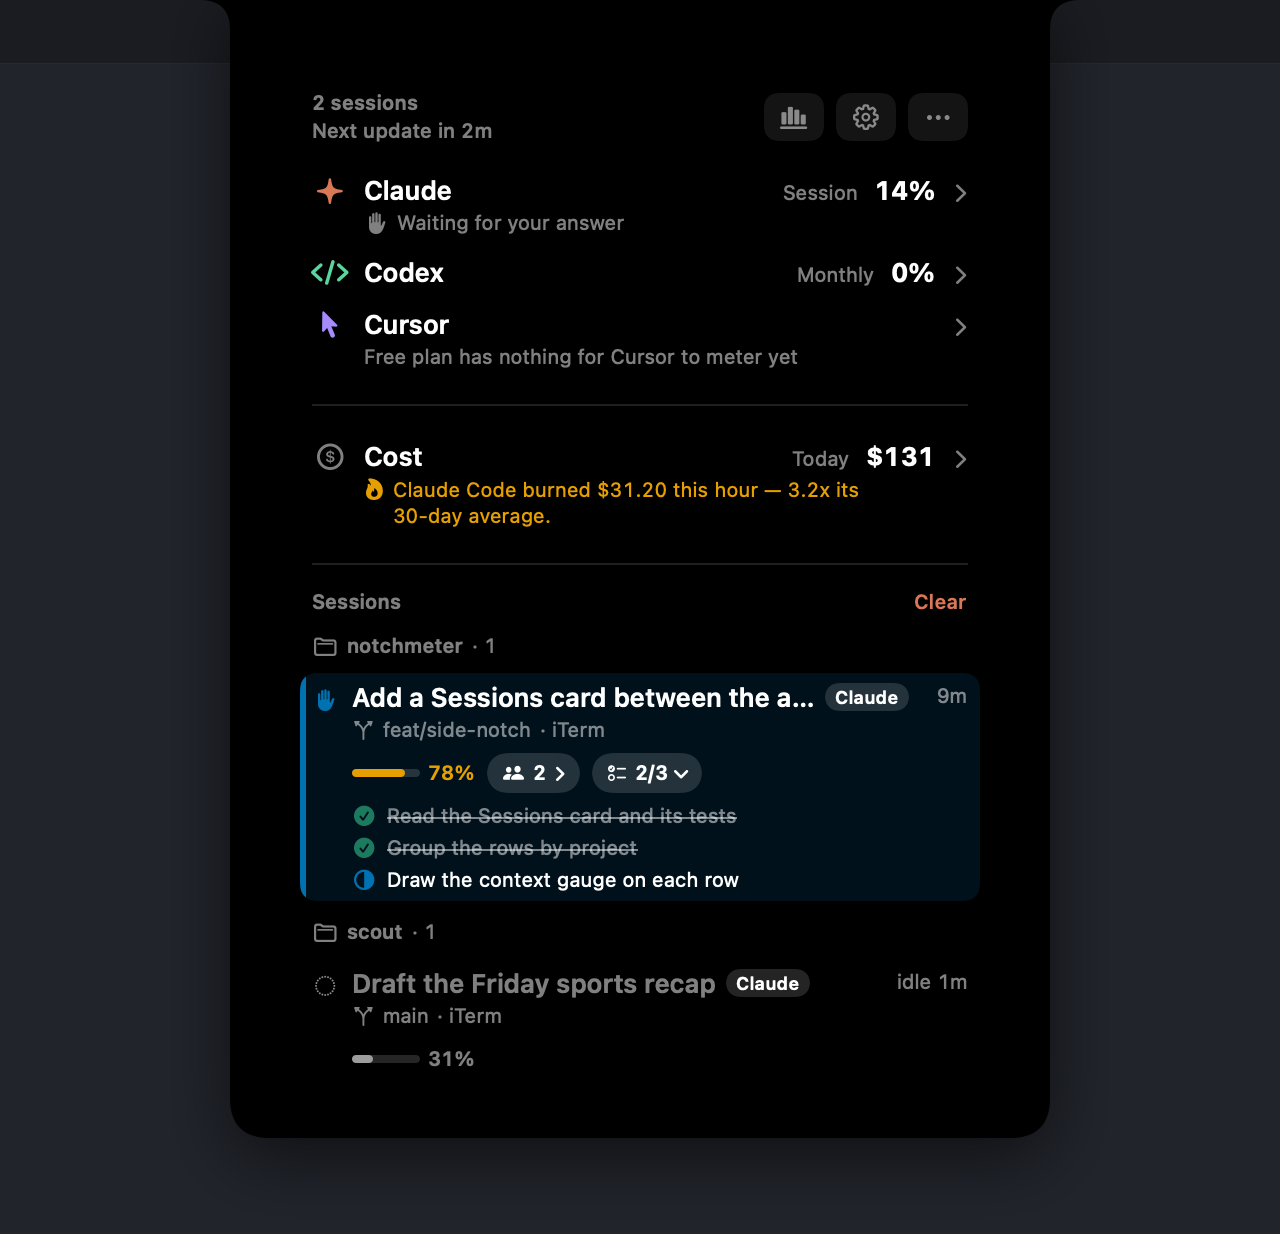
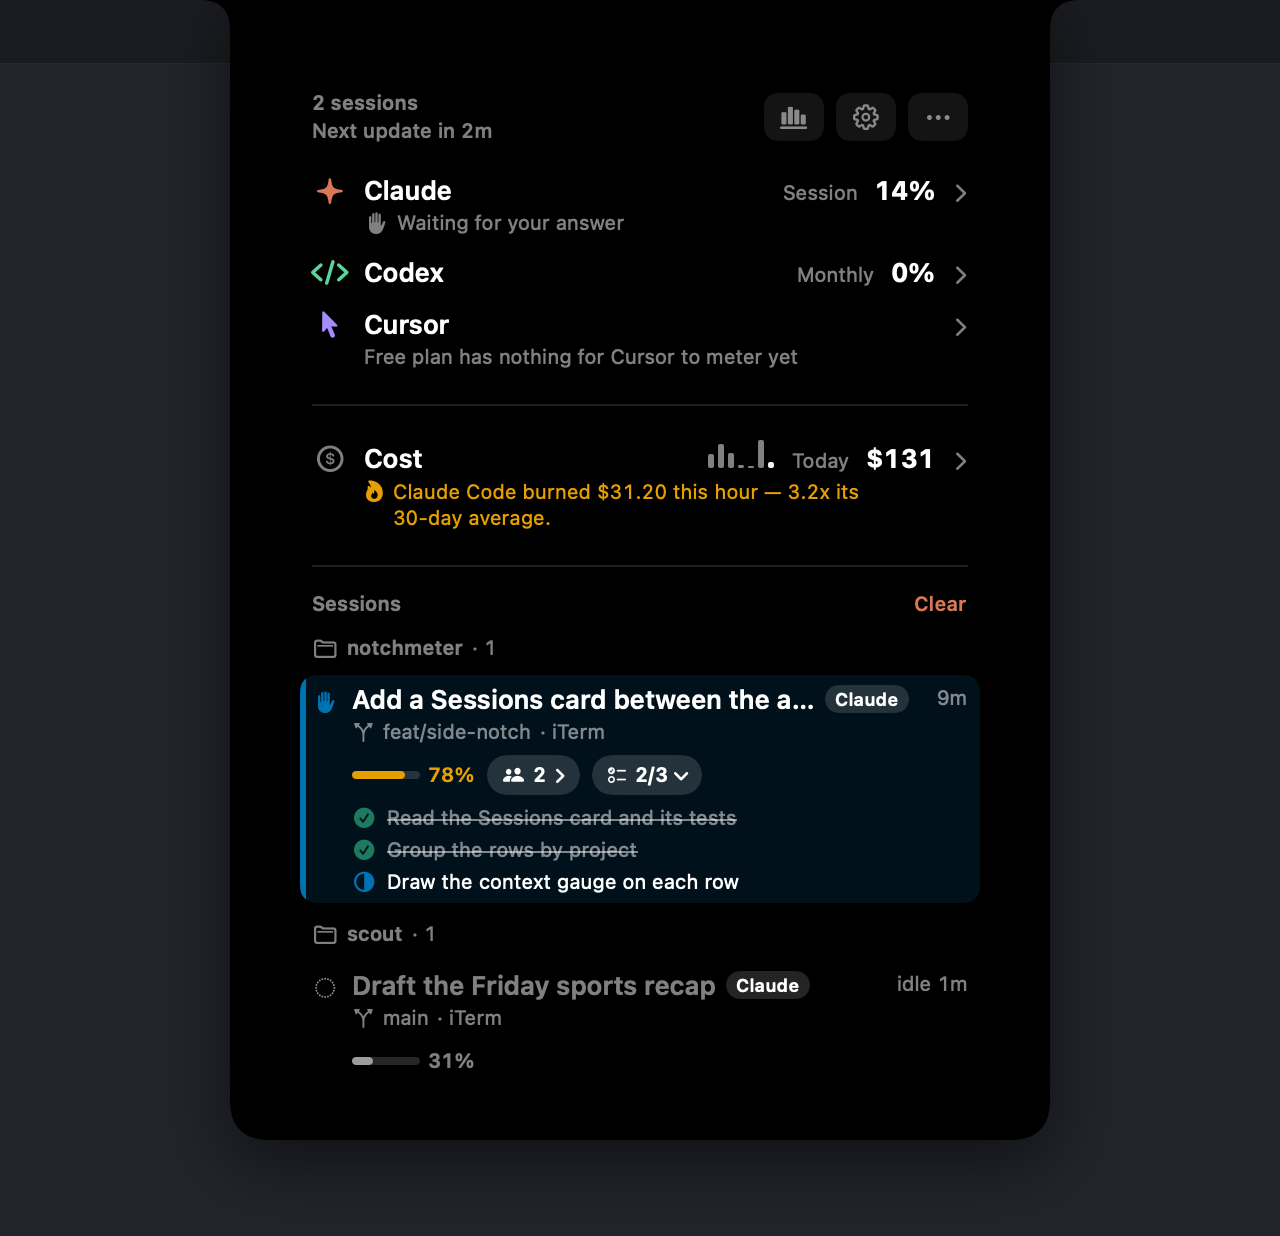
The 0.9.0 pictures, and a Settings sidebar wide enough for every pane name
The final-audit commit meant to bring docs/media and site/img up to the merged app, but its copy never
landed, so the README and the site were still showing 0.8.0 windows: no Theme section, no week strip on
the Cost row. Every picture the docs reference is rendered again from the release build, and
scripts/site-assets.sh copied the site's set.

The Settings sidebar opened at about 145 pt, which cut pane names in five languages: the German
"Erscheinungsbild" came out as "Erscheinun…", Russian lost Appearance, Notifications and Advanced,
Spanish two names, French and Japanese their Dashboard. The earlier fix, navigationSplitViewColumnWidth(210),
did nothing in this panel: neither an ideal nor a minimum moved the rendered window or the split view
item's thickness, hosted through NSHostingView or NSHostingController alike. A minimum width on the
column's own content is what the split view honours, so the sidebar carries .frame(minWidth: 200) and every
language's pane names fit in full (German and Russian checked by render).

Claude-Session: https://claude.ai/code/session_01XbqdrwMrwJ3enjCnoUf2M8

diff --git a/Sources/Notchmeter/SettingsWindow.swift b/Sources/Notchmeter/SettingsWindow.swift
@@ -351,9 +351,13 @@ struct SettingsView: View {
             .padding(.leading, item.tool == nil ? 0 : 10)
         }
         .listStyle(.sidebar)
-        // Wide enough for the longest pane name in the shipped languages: at 190 the German "Erscheinungsbild"
-        // (Appearance) came out as "Erscheinun…", a pane whose own name was cut.
-        .navigationSplitViewColumnWidth(210)
+        // Wide enough for the longest pane names in the shipped languages: at the width the split view chose on
+        // its own (about 145 pt) the German "Erscheinungsbild" came out as "Erscheinun…", and Russian, Spanish,
+        // French and Japanese each lost a pane name or three the same way. `navigationSplitViewColumnWidth` does
+        // not move this panel's sidebar (neither an ideal nor a minimum changed the rendered window or the split
+        // view item's thickness, probed with the panel hosted both ways); a minimum on the column's own content
+        // is what the split view honours, so the rule lives here.
+        .frame(minWidth: 200)
         // The panel has no toolbar of its own and no way to show one, so a toggle that hides the sidebar would
         // hide it for good; the column visibility below is pinned for the same reason.
         .toolbar(removing: .sidebarToggle)
